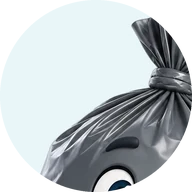
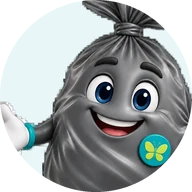
Turma: Saquinho inteiro e o Auditoria (Fiscal e conferência do estoque)
Claude-Session: https://claude.ai/code/session_01J4Z1XWxze9kpV6e58orTjR

diff --git a/config.js b/config.js
@@ -17,7 +17,7 @@ window.CRM_CONFIG = {
   // (topo, guia do dia); cada tela tem o seu especialista; os de linha de produto saem pela linha do FKN; o Andi
   // recebe no login. turma.js explica. Trocar um desenho: mesmo nome de arquivo e subir a `versao`.
   turma: {
-    pasta: 'assets/turma/', versao: '2',
+    pasta: 'assets/turma/', versao: '3',
     principal: 'clean', anfitriao: 'andi',
     boasVindas: 'Olá! Eu sou o Andi, assistente virtual da OneClean. Entre com o seu e-mail e a sua senha para começar.',
     mascotes: {
@@ -40,14 +40,15 @@ window.CRM_CONFIG = {
       estoque: { nome: 'Estoque', papel: 'Saldo, conferência e inventário' },
       financeiro: { nome: 'Financeiro', papel: 'Contas a pagar e a receber' },
       'proposta-comercial': { nome: 'Proposta', papel: 'Negócios e propostas' },
-      cobranca: { nome: 'Cobrança', papel: 'Boletos e lembretes' }
+      cobranca: { nome: 'Cobrança', papel: 'Boletos e lembretes' },
+      auditoria: { nome: 'Auditoria', papel: 'Conferência, divergências e correções' }
     },
     telas: {
       inicio: 'clean', fila: 'capiclean', funil: 'proposta-comercial', empresas: 'capiclean', pessoas: 'capiclean',
       negocios: 'proposta-comercial', pedidos: 'compras-cliente-sacola', 'pedidos:separacao': 'logistica', 'pedidos:nfe': 'logistica',
       'pedidos:estoque': 'estoque', 'pedidos:faltas': 'compras-setor-interno', agenda: 'baldinho', relatorios: 'clean', ajustes: 'clean',
       compras: 'compras-setor-interno', estoque: 'estoque', gestao: 'financeiro', caixa: 'financeiro', 'caixa:cobranca': 'cobranca',
-      emails: 'capiclean', ofertas: 'gotti', fiscal: 'clean'
+      emails: 'capiclean', ofertas: 'gotti', fiscal: 'auditoria', 'estoque:conferencia': 'auditoria'
     },
     // fala de "tudo em dia" de cada tela (quando não há nada esperando ali)
     falas: {
@@ -60,6 +61,8 @@ window.CRM_CONFIG = {
       agenda: 'Nenhuma atividade atrasada. Rotina em dia!',
       compras: 'Relatórios do FKN em dia.',
       estoque: 'Estoque conferido com o FKN, sem diferença sem explicação.',
+      'estoque:conferencia': 'Conferi a última listagem do FKN: nenhuma diferença sem explicação.',
+      fiscal: 'Estou de olho nas regras fiscais e nas notas. Pergunte se algo parecer estranho.',
       caixa: 'Nenhuma conta vencida sem baixa.',
       'caixa:cobranca': 'Nenhum boleto esperando por aqui.',
       emails: 'A cadência de e-mails está rodando.',

diff --git a/turma.js b/turma.js
@@ -64,7 +64,7 @@
       (c.recusas || []).forEach((x, i) => poe('fkn-recusa-' + i, 'urgente', 'Relatório do FKN recusado: puxe de novo com as opções certas', 'compras'));
       (c.fkn || []).forEach((x, i) => poe('fkn-' + i, 'atencao', 'Puxar do FKN: ' + x.arquivo, 'compras'));
       const es = r.estoque || {};
-      if (es.sem_explicacao) poe('estoque-dif', 'atencao', plural(es.sem_explicacao, 'diferença de estoque sem explicação', 'diferenças de estoque sem explicação'), 'estoque');
+      if (es.sem_explicacao) poe('estoque-dif', 'atencao', plural(es.sem_explicacao, 'diferença de estoque sem explicação', 'diferenças de estoque sem explicação'), 'estoque', 'conferencia');
       if (es.abaixo_minimo) poe('estoque-min', 'info', plural(es.abaixo_minimo, 'produto abaixo do mínimo', 'produtos abaixo do mínimo'), 'compras');
     }
     if (c.admin) {
@@ -348,6 +348,7 @@
       CRM.irPara(aba);
       if (sub && aba === 'caixa' && CRM.acoes['cx-vista']) CRM.acoes['cx-vista'](sub);
       if (sub && aba === 'pedidos' && CRM.acoes['pd-ver']) CRM.acoes['pd-ver'](sub);
+      if (sub && aba === 'estoque' && CRM.acoes['es-ver']) CRM.acoes['es-ver'](sub);
     },
     'turma-balao': () => {
       if (canto.mini) { canto.mini = false; CRM.gravaPref('turma-canto', ''); canto.balao = true; } else canto.balao = !canto.balao;

diff --git a/index.html b/index.html
@@ -9,7 +9,7 @@
 <meta http-equiv="Content-Security-Policy" content="default-src 'self'; script-src 'self' https://cdn.jsdelivr.net; style-src 'self'; img-src 'self' data:; connect-src 'self' https://*.supabase.co wss://*.supabase.co; object-src 'none'; base-uri 'none'; form-action 'none'">
 <meta name="referrer" content="no-referrer">
 <title>CRM</title>
-<meta name="crm-versao" content="db00415eb3d9">
+<meta name="crm-versao" content="3cde01157e23">
 <link rel="icon" href="assets/logo.jpg?v=c886df2fc5">
 <link rel="stylesheet" href="crm.css?v=eeac89787f">
 </head>
@@ -48,7 +48,7 @@
 <div id="impressao" class="impressao"></div>
 <div id="toast" class="toast" role="status" aria-live="polite"></div>
 
-<script src="config.js?v=776a373782"></script>
+<script src="config.js?v=e93fdcd550"></script>
 <script src="regras.js?v=79de468a56"></script>
 <script src="cadencia.js?v=8905237dde"></script>
 <script src="dados.js?v=07fcbffd2e"></script>
@@ -78,6 +78,6 @@
 <script src="emissao.js?v=074b5b9402"></script>
 <script src="ofertas.js?v=e6acb5ecb2"></script>
 <script src="sequencia.js?v=a18c820267"></script>
-<script src="turma.js?v=756e72e9c5"></script>
+<script src="turma.js?v=fc6e0c8382"></script>
 </body>
 </html>

diff --git a/CLAUDE.md b/CLAUDE.md
@@ -1231,11 +1231,10 @@ e círculo); recortados sem fundo com o rembg (isnet) em `assets/turma/<id>.webp
   US$ 10/mês no console da Anthropic: com o uso da equipe, rever). Custo do mês aparece para o admin no rodapé da conversa.
 - **Não testado ainda com a API de verdade** (daqui não há login de usuário): a 1ª pergunta real é do Anderson. Se uma
   ferramenta falhar, a IA diz "a consulta falhou" e o motivo fica no log da função (`get_logs` → edge-function).
-- **Desenhos:** Andi novo (proporção melhor) trocado em 17/10 à noite (`versao` 2). O **Saquinho** do arquivo original vem
-  cortado embaixo (PNG truncado na linha 1088 de 1254; o 2º zip trouxe o mesmo arquivo, mesmo tamanho): por ora o pé
-  tem um degradê; precisa o PNG inteiro (gerar/baixar de novo). Falta o **Auditoria** como arquivo (veio só como imagem):
-  vai em `telas['estoque:conferencia']` e `fiscal`. Recortar com `scratchpad/mascotes/scripts/final.py` (rembg isnet +
-  maior componente + círculo da prancha; o nome sai do arquivo "NN-Nome.png") e subir a `versao` do config.
+- **Desenhos (17/10, noite, `versao` 3):** Andi novo (proporção melhor), **Saquinho inteiro** e **Auditoria** (novo:
+  `fiscal` e `estoque:conferencia`; o aviso de diferença de estoque leva à Conferência) — os dois últimos vieram soltos (sem
+  título nem círculo): `scratchpad/mascotes/scripts/solto.py` (rosto = parte de cima do corpo) + borda suavizada. Pranchas com
+  título e círculo: `final.py` (o nome sai do arquivo "NN-Nome.png"). Trocar desenho: mesmo nome de arquivo e subir a `versao`.
 - **Próximo pedido do Anderson (17/10):** "uma skill de um comprador sênior… administrando a parte de compras, dando
   palpite, sugerindo compras inteligentes, relação com os principais concorrentes, fornecedor…". O começo já está na
   persona de Compras + `reposicao`/`giro`; falta: prazo e mínimo por fornecedor, histórico de preço de compra
